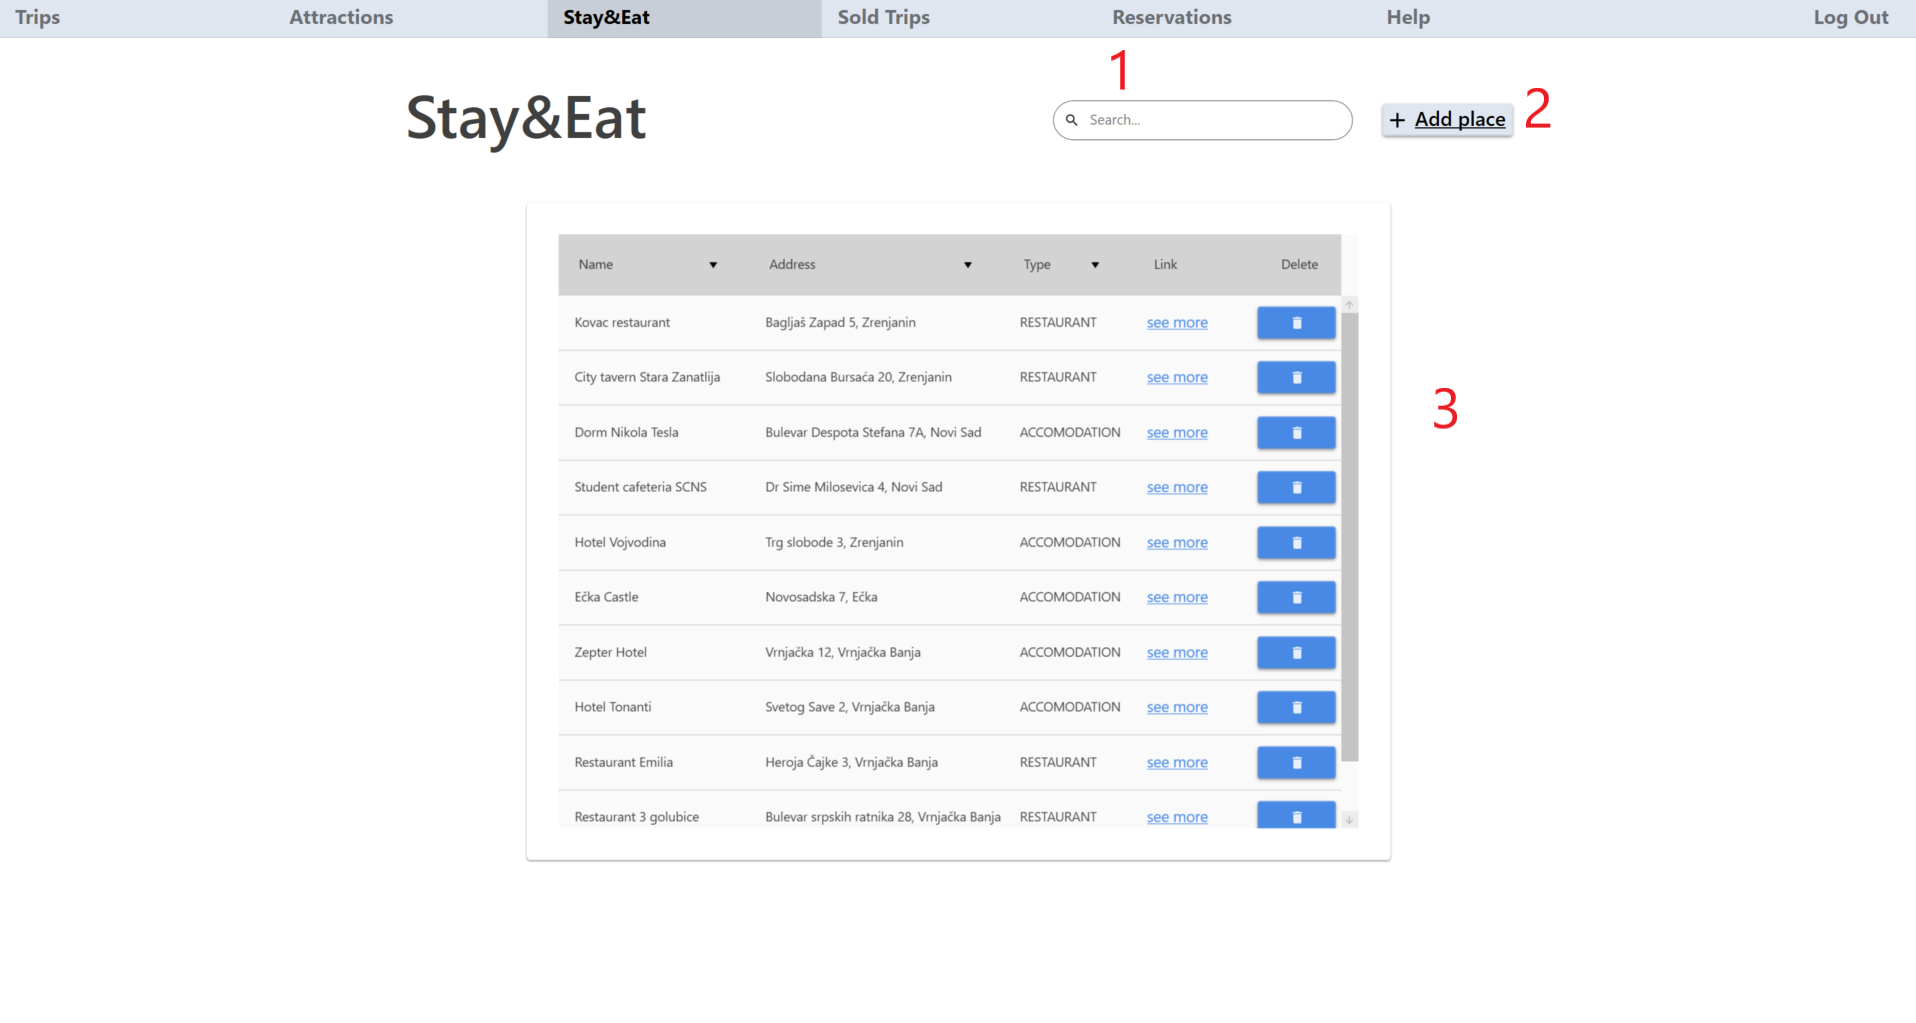
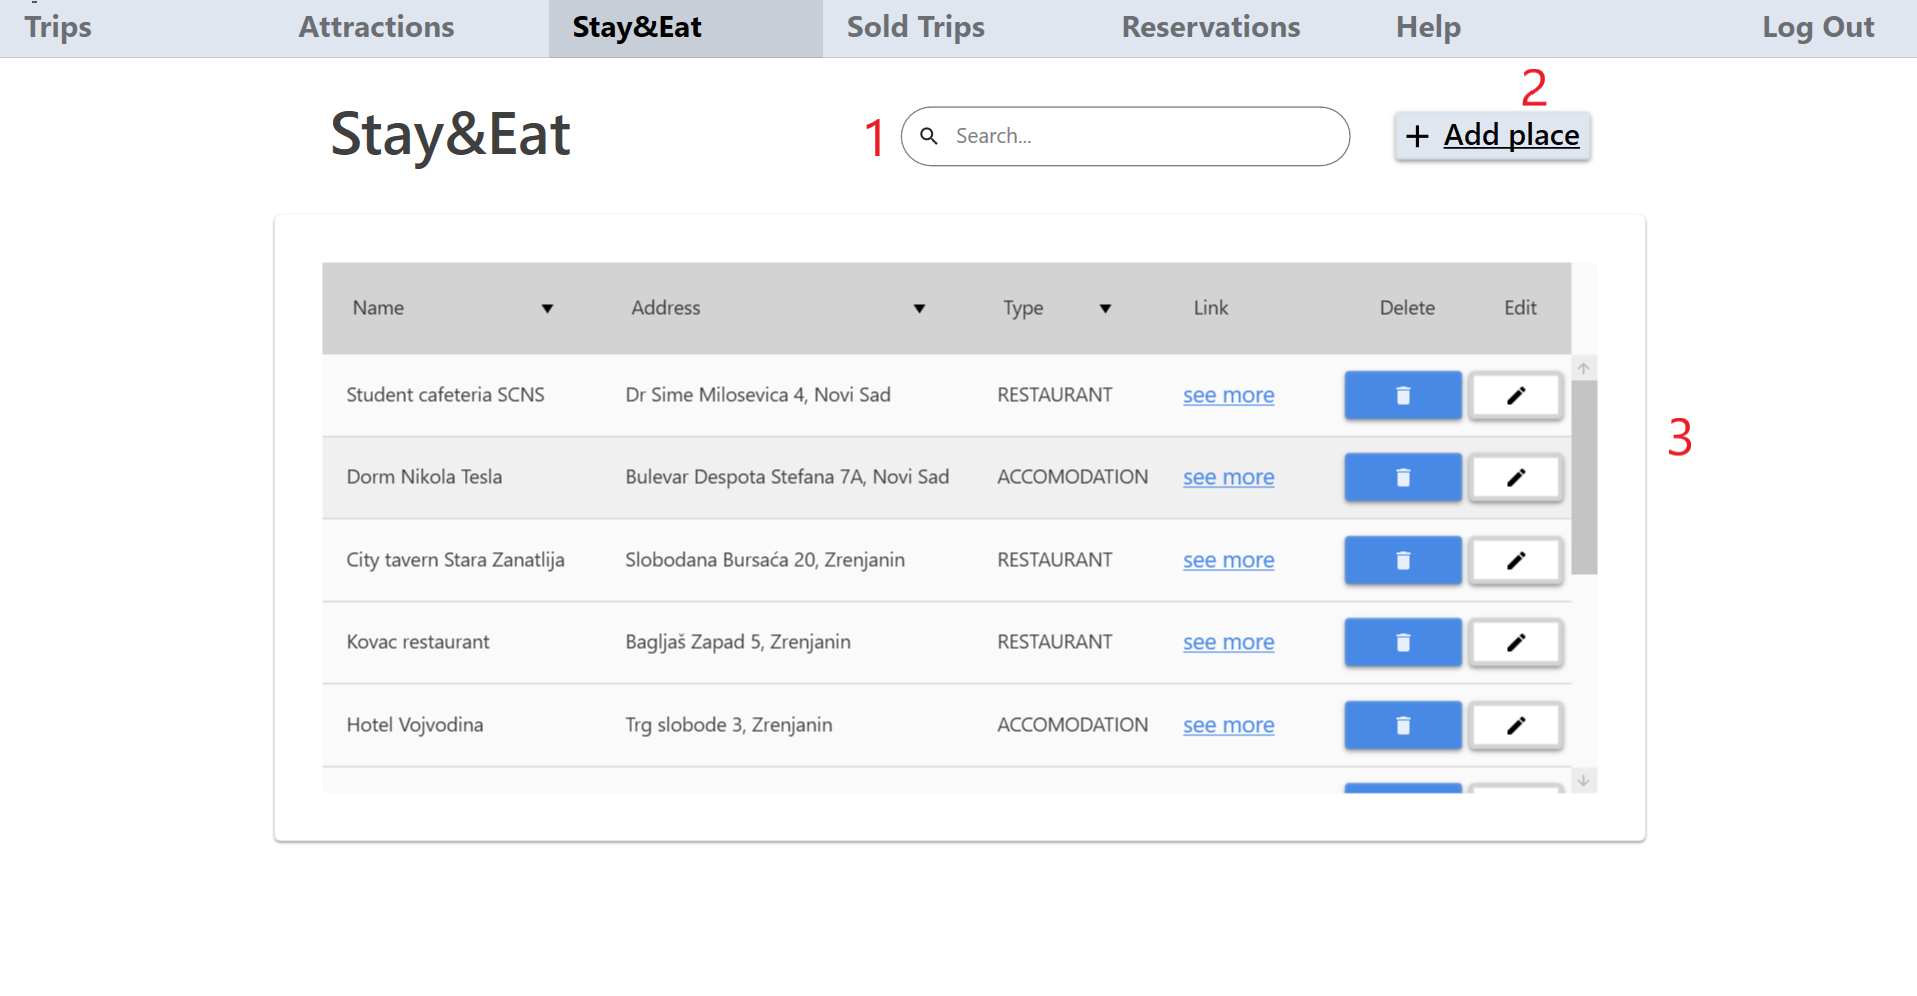
Added new helpers

diff --git a/TravelApp/Help/index.html b/TravelApp/Help/index.html
@@ -1,56 +1,59 @@
 <!DOCTYPE html>
 <html>
-<head>
-    <meta charset="utf-8">
-    <meta name="viewport" content="width=device-width, initial-scale=1">
-    <title>Help</title>
-    <style type="text/css">
-        body {
-            max-width: 650px;
-            line-height: 1.6;
-            font-size: 18px;
-            color: #333;
-            padding: 0 10px
-        }
+    <head>
+        <meta charset="utf-8">
+        <meta name="viewport" content="width=device-width, initial-scale=1">
+        <title>Help</title>
+        <style type="text/css">
+            body {
+                max-width: 650px;
+                line-height: 1.6;
+                font-size: 18px;
+                color: #333;
+                padding: 0 10px
+            }
 
-        h1, h2, h3 {
-            line-height: 1.2
-        }
-    </style>
-</head>
-<body>
-    <div>
-        <img src="airplane.ico" height="80px" />
-    </div>
-    <h1>System help for travel in Serbia</h1>
-    Welcome to the help system for travel management in Serbia!
-    <br />
-    Below you can see the following help pages:
-    <ul>
-        <p style="font-size: 1.5rem; margin: 0;">User profiles</p>
-        <li><a href="login.html">Login on system</a></li>
-        <li><a href="register.html">Sign up new profile</a></li>
-        <br></br>
+            h1, h2, h3 {
+                line-height: 1.2
+            }
+        </style>    
+    </head>
+    <body>
+        <div>
+            <img src="airplane.ico" height="80px" />
+        </div>
+        <h1>System help for travel in Serbia</h1>
+        Welcome to the help system for travel management in Serbia!
+        <br />
+        Below you can see the following help pages:
+        <ul>
+            <p style="font-size: 1.5rem; margin: 0;">User profiles</p>
+            <li><a href="login.html">Login on system</a></li>
+            <li><a href="register.html">Sign up new profile</a></li>
+            <br></br>
 
-        <p style="font-size: 1.5rem; margin: 0;">Options for customers</p>
-        <li><a href="allTrips.html">List of trips</a></li>
-        <li><a href="allAttractions.html">List of attractions</a></li>
-        <li><a href="stayAndEat.html">Table of accommodation and restaurants</a></li>
-        <li><a href="myTrips.html">My trips (history of purchased trips)</a></li>
-        <li><a href="myReservation.html">My reservations</a></li>
-        <li><a href="">Details about a trip</a></li>
-        <br></br>
+            <p style="font-size: 1.5rem; margin: 0;">Options for customers</p>
+            <li><a href="allTrips.html">List of trips</a></li>
+            <li><a href="allAttractions.html">List of attractions</a></li>
+            <li><a href="stayAndEat.html">Table of accommodation and restaurants</a></li>
+            <li><a href="myTrips.html">My trips (history of purchased trips)</a></li>
+            <li><a href="myReservation.html">My reservations</a></li>
+            <li><a href="">Details about a trip</a></li>
+            <br></br>
 
-        <p style="font-size: 1.5rem; margin: 0;">Options for agent</p>
-        <li><a href="newTrip.html">Add a trip</a></li>
-        <li><a href="">Add an attraction</a></li>
-        <li><a href="newPlace.html">Add a place</a></li>
-        <li><a href="allTripsAgent.html">List of trips</a></li>
-        <li><a href="allAttractionsAgent.html">List of attraction</a></li>
-        <li><a href="stayAndEatAgent.html">Table of accommodation and restaurants</a></li>
-        <li><a href="soldTrips.html">Sold trips (history of purchased trips)</a></li>
-        <li><a href="reservationAgent.html">Table of reservations</a></li>
-        <li><a href="">Details about a trip</a></li>
-    </ul>
-</body>
+            <p style="font-size: 1.5rem; margin: 0;">Options for agent</p>
+            <li><a href="newTrip.html">Add a trip</a></li>
+            <li><a href="newAttraction.html">Add an attraction</a></li>
+            <li><a href="newPlace.html">Edit a place</a></li>
+            <li><a href="newTrip.html">Edit a trip</a></li>
+            <li><a href="newAttraction.html">Edit an attraction</a></li>
+            <li><a href="newPlace.html">Add a place</a></li>
+            <li><a href="allTripsAgent.html">List of trips</a></li>
+            <li><a href="allAttractionsAgent.html">List of attraction</a></li>
+            <li><a href="stayAndEatAgent.html">Table of accommodation and restaurants</a></li>
+            <li><a href="soldTrips.html">Sold trips (history of purchased trips)</a></li>
+            <li><a href="reservationAgent.html">Table of reservations</a></li>
+            <li><a href="">Details about a trip</a></li>
+        </ul>
+    </body>
 </html>

diff --git a/TravelApp/Help/newAttraction.html b/TravelApp/Help/newAttraction.html
@@ -1,0 +1,65 @@
+<!DOCTYPE html>
+<html>
+    <head>
+        <meta charset="utf-8">
+        <meta name="viewport" content="width=device-width, initial-scale=1">
+        <title>Help to add a new attraction</title>
+        <style type="text/css">
+            body {
+                max-width: 650px;
+                line-height: 1.6;
+                font-size: 18px;
+                color: #333;
+                padding: 0 10px
+            }
+
+            h1, h2, h3 {
+                line-height: 1.2
+            }
+        </style>    
+    </head>
+    <body>
+        <h1>Add new attraction</h1>
+        <p>
+            You can find this page by navigating to All Attractions and then pressing the <i>Add attraction</i> button
+            The page looks like this:
+        </p>
+        <div>
+            <img src="newAttraction.png" width="100%" />
+        </div>
+        <ol>
+            <li>Name input field</li>
+            <li>Address input field</li>
+            <li>Map</li>
+            <li>Description</li>
+            <li>Add photo button</li>
+            <li>Create button</li>
+            <li>Close button</li>
+        </ol>
+        <p>
+            To successfully create an attraction you must fill in all fields.
+            The minimum number of characters for name and address is three (3).
+            The maximum number of characters for name is fifty (50).          
+            Also the start date must be before the end date.
+            By pressing the <i>Add photo</i> button you can import an image from your computer.
+            You can assign existing attractions, accommodations and restaurants to the new trip in the selection fields.
+            If all entries are correct, you will be able to click the <i>Create</i> button and create a trip.
+            Click on the <i>Close</i> button (x) to close the window and return to Stay&Eat page.
+            <b>But beware all previous changes will be deleted!!!</b>
+        </p>
+
+        <h3>Work with map</h3>
+        <p>
+            By clicking on the map you can set a pin. You can move the pin around the map. But you can also enter the location from the field.
+        </p>
+
+        <div style="border: 1px solid black; padding-left: 5%; padding-top: 10px; padding-bottom: 10px;">
+            <h2>List of shortcuts</h2>
+            <ul>
+                <li>Move to the next field: Tab</li>
+                <li>Login (when a field is in focus): Enter </li>
+            </ul>
+        </div>
+    </body>
+
+</html>

diff --git a/TravelApp/Help/stayAndEatAgent.html b/TravelApp/Help/stayAndEatAgent.html
@@ -42,8 +42,10 @@
             - Each row in the table can be sorted.</br>
             - The table shows a list of all restaurants and accomodatios.</br>
             - Clicking on the link <i>see more</i> will take you to the official page of the selected restaurant/accommodation </br>
-            - The last row of the table represents the delete button. Clicking on that button deletes the restaurant/accommodation of the row in which the button was pressed. </br>
-            - To delete the restaurant/accommodation you will need to confirm your action.
+            - The penultimate row (blue button) of the table represents the <b>delete button</b>. Clicking on that button deletes the restaurant/accommodation of the row in which the button was pressed. </br>
+            - To delete the restaurant/accommodation you will need to confirm your action. <br />
+            - The penultimate row (blue button) of the table represents the <b>edit button</b>. Clicking on that button edits the restaurant/accommodation of the row in which the button was pressed. </br>
+            - To edit the restaurant/accommodation you will need to confirm your action.
         </p>
     </body>
 

diff --git a/TravelApp/DesktopHost/View/Agent/NewAttractionView.xaml b/TravelApp/DesktopHost/View/Agent/NewAttractionView.xaml
@@ -7,6 +7,11 @@
              xmlns:local="clr-namespace:TravelApp.DesktopHost.View.Agent"
              xmlns:viewmodels="clr-namespace:TravelApp.DesktopHost.ViewModel.Component.Agent"
              xmlns:views="clr-namespace:TravelApp.DesktopHost.View"
+             xmlns:l="clr-namespace:TravelApp"
+             Focusable="True"
+             l:HelpProvider.HelpKey="newAttraction"
+             GotFocus="SetHelpKey"
+             Loaded="UserControl_Loaded"
              mc:Ignorable="d" 
              Background="White"
              SizeChanged="Window_SizeChanged"

diff --git a/TravelApp/DesktopHost/View/Agent/NewTripView.xaml b/TravelApp/DesktopHost/View/Agent/NewTripView.xaml
@@ -7,6 +7,11 @@
              xmlns:viewmodels="clr-namespace:TravelApp.DesktopHost.ViewModel.Component.Agent"
              xmlns:views="clr-namespace:TravelApp.DesktopHost.View"
              xmlns:local="clr-namespace:TravelApp.DesktopHost.View.Agent"
+             xmlns:l="clr-namespace:TravelApp"
+             Focusable="True"
+             l:HelpProvider.HelpKey="newTrip"
+             GotFocus="SetHelpKey"
+             Loaded="UserControl_Loaded"
              mc:Ignorable="d" 
              Background="White"
              SizeChanged="Window_SizeChanged"

diff --git a/TravelApp/DesktopHost/View/Agent/NewTripView.xaml.cs b/TravelApp/DesktopHost/View/Agent/NewTripView.xaml.cs
@@ -25,6 +25,7 @@ namespace TravelApp.DesktopHost.View.Agent
         public NewTripView()
         {
             InitializeComponent();
+            SetHelpKey(null,null);
         }
 
         private void TextBox_PreviewTextInput(object sender, TextCompositionEventArgs e)
@@ -233,6 +234,20 @@ namespace TravelApp.DesktopHost.View.Agent
                 viewModel.TextFontSize = 60;
                 viewModel.Width = 439;
             }
+        }
+
+        public void SetHelpKey(object sender, EventArgs e)
+        {
+            IInputElement focusedControl = FocusManager.GetFocusedElement(Application.Current.Windows[0]);
+            if (focusedControl is DependencyObject)
+            {
+                HelpProvider.SetHelpKey((DependencyObject)focusedControl, "newTrip");
+            }
+        }
+
+        private void UserControl_Loaded(object sender, RoutedEventArgs e)
+        {
+            this.Focus();
         }
     }
 }

diff --git a/TravelApp/DesktopHost/View/Agent/NewAttractionView.xaml.cs b/TravelApp/DesktopHost/View/Agent/NewAttractionView.xaml.cs
@@ -24,6 +24,7 @@ namespace TravelApp.DesktopHost.View.Agent
         public NewAttractionView()
         {
             InitializeComponent();
+            SetHelpKey(null, null);
         }
 
         private void Window_SizeChanged(object sender, SizeChangedEventArgs e)
@@ -126,5 +127,18 @@ namespace TravelApp.DesktopHost.View.Agent
             }
         }
 
+        public void SetHelpKey(object sender, EventArgs e)
+        {
+            IInputElement focusedControl = FocusManager.GetFocusedElement(Application.Current.Windows[0]);
+            if (focusedControl is DependencyObject)
+            {
+                HelpProvider.SetHelpKey((DependencyObject)focusedControl, "newAttraction");
+            }
+        }
+
+        private void UserControl_Loaded(object sender, RoutedEventArgs e)
+        {
+            this.Focus();
+        }
     }
 }
